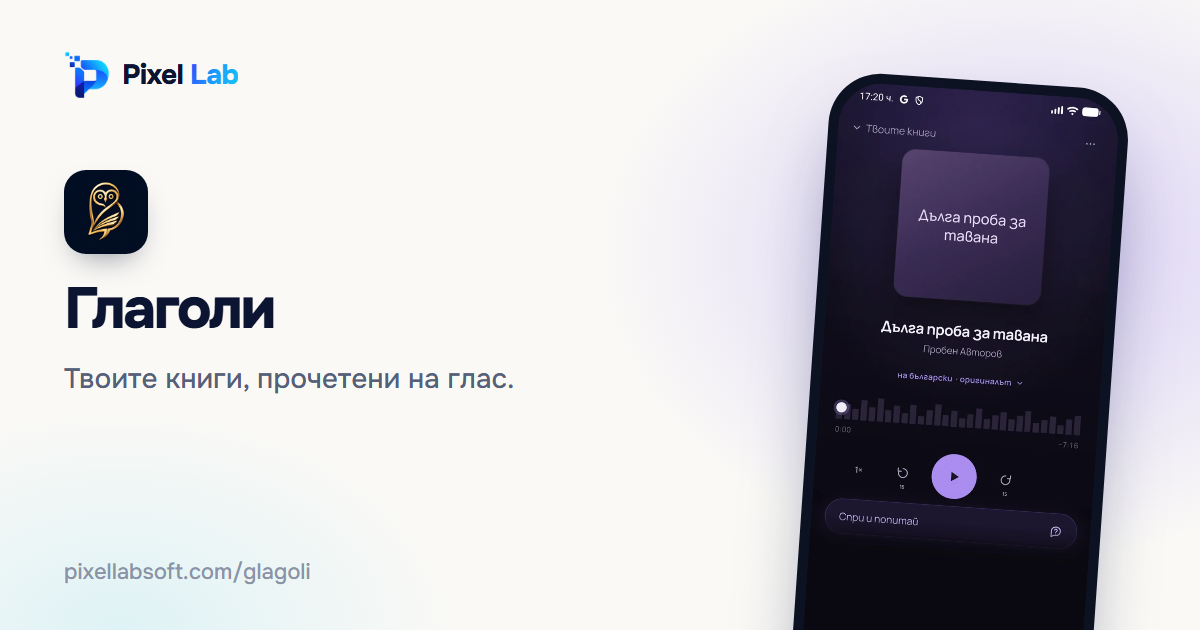
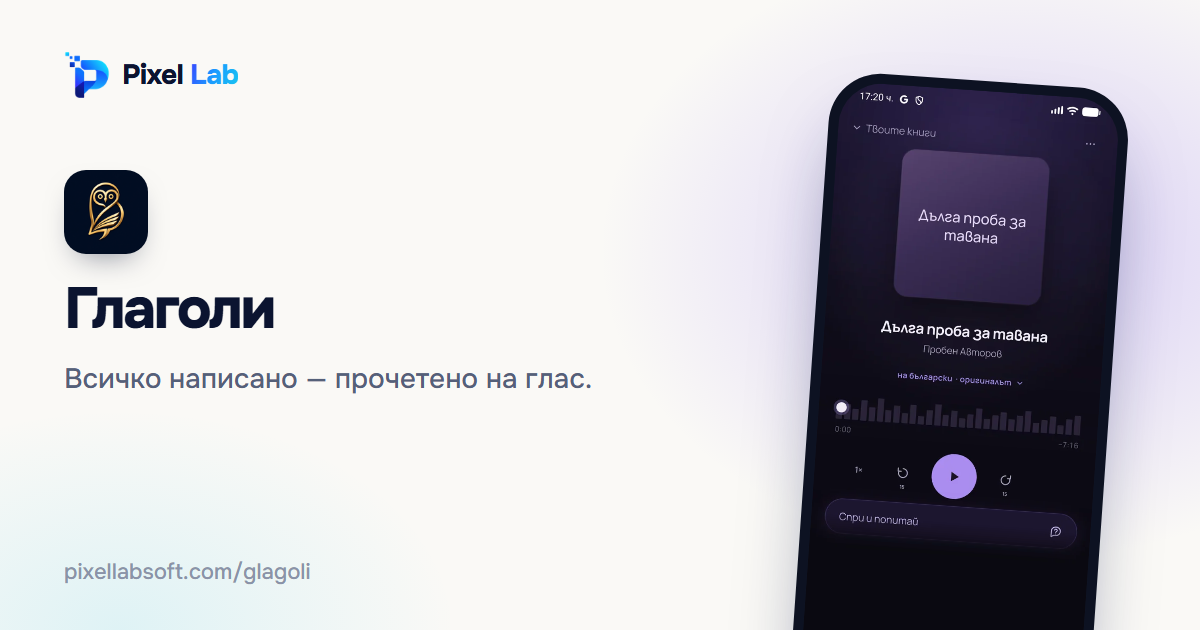
Glagoli: anything written read aloud - books, photographed documents, letters, not only books

Changed region(s): [[0.0308, 0.573, 0.4933, 0.6333]]

diff --git a/docs/glagoli/index.html b/docs/glagoli/index.html
@@ -3,14 +3,14 @@
 <head>
 <meta charset="utf-8">
 <meta name="viewport" content="width=device-width, initial-scale=1">
-<title>Глаголи — Твоите книги, прочетени на глас.</title>
-<meta name="description" content="Качваш своя книга — EPUB, PDF, Word или снимки на страниците — и Глаголи ти я чете на глас, на езика, на който е написана: български или английски.">
+<title>Глаголи — Всичко написано — прочетено на глас.</title>
+<meta name="description" content="Глаголи чете на глас всичко написано: книга, договор, писмо, инструкция, документ от общината. Снимаш страниците с телефона или качваш файл — PDF, Word, EPUB или текст — и го слушаш на естествен глас, на езика, на който е написано: български или английски.">
 <meta name="theme-color" content="#ffffff">
 <link rel="canonical" href="https://pixellabsoft.com/glagoli/">
 <link rel="alternate" hreflang="bg" href="https://pixellabsoft.com/glagoli/">
 <link rel="alternate" hreflang="en" href="https://pixellabsoft.com/en/glagoli/">
-<meta property="og:title" content="Глаголи — Твоите книги, прочетени на глас.">
-<meta property="og:description" content="Качваш своя книга — EPUB, PDF, Word или снимки на страниците — и Глаголи ти я чете на глас, на езика, на който е написана: български или английски.">
+<meta property="og:title" content="Глаголи — Всичко написано — прочетено на глас.">
+<meta property="og:description" content="Глаголи чете на глас всичко написано: книга, договор, писмо, инструкция, документ от общината. Снимаш страниците с телефона или качваш файл — PDF, Word, EPUB или текст — и го слушаш на естествен глас, на езика, на който е написано: български или английски.">
 <meta property="og:url" content="https://pixellabsoft.com/glagoli/">
 <meta property="og:site_name" content="Пиксел Лаб Софт">
 <meta property="og:image" content="https://pixellabsoft.com/assets/og/glagoli-bg.png">
@@ -343,7 +343,7 @@ footer .fine { margin-top: 36px; padding-top: 18px; border-top: 1px solid rgba(2
 .device.window img { height: auto; }
 .mockwrap:has(.window) { display: block; width: min(620px, 100%); }
 </style>
-<script type="application/ld+json">{"@context":"https://schema.org","@type":"MobileApplication","name":"Глаголи","description":"Качваш своя книга — EPUB, PDF, Word или снимки на страниците — и Глаголи ти я чете на глас, на езика, на който е написана: български или английски.","url":"https://pixellabsoft.com/glagoli/","applicationCategory":"BookApplication","publisher":{"@type":"Organization","name":"Пиксел Лаб ЕООД","alternateName":"Pixel Lab Soft","url":"https://pixellabsoft.com/","logo":"https://pixellabsoft.com/assets/favicon-512.png","email":"support@pixellabsoft.com","sameAs":["https://sortis.pro","https://glagoli.app"]},"image":"https://pixellabsoft.com/assets/og/glagoli-bg.png","operatingSystem":"Android","downloadUrl":"https://play.google.com/store/apps/details?id=bg.glagoli.app"}</script>
+<script type="application/ld+json">{"@context":"https://schema.org","@type":"MobileApplication","name":"Глаголи","description":"Глаголи чете на глас всичко написано: книга, договор, писмо, инструкция, документ от общината. Снимаш страниците с телефона или качваш файл — PDF, Word, EPUB или текст — и го слушаш на естествен глас, на езика, на който е написано: български или английски.","url":"https://pixellabsoft.com/glagoli/","applicationCategory":"BookApplication","publisher":{"@type":"Organization","name":"Пиксел Лаб ЕООД","alternateName":"Pixel Lab Soft","url":"https://pixellabsoft.com/","logo":"https://pixellabsoft.com/assets/favicon-512.png","email":"support@pixellabsoft.com","sameAs":["https://sortis.pro","https://glagoli.app"]},"image":"https://pixellabsoft.com/assets/og/glagoli-bg.png","operatingSystem":"Android","downloadUrl":"https://play.google.com/store/apps/details?id=bg.glagoli.app"}</script>
 </head>
 <body>
 <div class="top"><div class="wrap">
@@ -360,15 +360,15 @@ footer .fine { margin-top: 36px; padding-top: 18px; border-top: 1px solid rgba(2
   <div>
     <span class="tile img big"><img src="/assets/icon-glagoli.png" alt="" width="128" height="128"></span>
     <div class="name"><span>Глаголи</span><span class="pill store">Наличен</span></div>
-    <h1>Твоите книги, прочетени на глас.</h1>
-    <div class="chips"><span class="chip">EPUB, PDF, Word или снимка</span><span class="chip">Български и английски</span><span class="chip">Спри и питай — без спойлери</span><span class="chip">Пакети часове, без абонамент</span></div>
+    <h1>Всичко написано — прочетено на глас.</h1>
+    <div class="chips"><span class="chip">Книги, документи, писма</span><span class="chip">Снимка, PDF, Word, EPUB</span><span class="chip">Български и английски</span><span class="chip">Спри и питай</span></div>
     <div class="stores"><a class="store-btn" href="https://play.google.com/store/apps/details?id=bg.glagoli.app"><svg viewBox="0 0 24 24" aria-hidden="true"><path fill="#34d17a" d="M3.6 2.3c-.3.3-.5.8-.5 1.4v16.6c0 .6.2 1.1.5 1.4l9.3-9.7z"/><path fill="#ffd23f" d="m16 15.1-3.1-3.1L16 8.9l3.7 2.1c1.1.6 1.1 1.6 0 2.2z"/><path fill="#ff4d5e" d="M16 15.1 12.9 12l-9.3 9.7c.4.4 1 .4 1.7 0z"/><path fill="#3aa0ff" d="M16 8.9 5.3 2.3c-.7-.4-1.3-.4-1.7 0l9.3 9.7z"/></svg><span>Изтегли от<b>Google Play</b></span></a></div>
   </div>
   <div class="visual" style="--c:#8b6cf6"><div class="mockwrap" style="--c:#8b6cf6"><div class="device phone"><div class="screen" style="aspect-ratio:520 / 1125"><img src="/assets/glagoli-bg.webp" alt="Екран на Глаголи: книгата се чете на глас, а отдолу е бутонът „Спри и попитай“." width="520" height="1125" loading="lazy" decoding="async"></div></div></div></div>
 </section>
 <section class="section read prose">
-<p>Качваш своя книга — EPUB, PDF, Word или снимки на страниците — и Глаголи ти я чете на глас, на езика, на който е написана: български или английски.</p>
-<p>Спираш и питаш нещо за прочетеното. Отговорът е само по това, което вече си чул, и не издава какво следва. После продължаваш точно оттам.</p>
+<p>Глаголи чете на глас всичко написано: книга, договор, писмо, инструкция, документ от общината. Снимаш страниците с телефона или качваш файл — PDF, Word, EPUB или текст — и го слушаш на естествен глас, на езика, на който е написано: български или английски.</p>
+<p>Спираш и питаш нещо за прочетеното. При книга отговорът е само по това, което вече си чул, и не издава какво следва. После продължаваш точно оттам.</p>
 <p>Плаща се с пакети часове слушане, без абонамент. Първата минута е безплатна.</p>
 <div class="links">
   <a href="https://glagoli.app/poveritelnost.html">Политика за поверителност</a>

diff --git a/docs/en/glagoli/index.html b/docs/en/glagoli/index.html
@@ -3,14 +3,14 @@
 <head>
 <meta charset="utf-8">
 <meta name="viewport" content="width=device-width, initial-scale=1">
-<title>Glagoli — Your books, read aloud.</title>
-<meta name="description" content="Upload your own book — EPUB, PDF, Word or photos of the pages — and Glagoli reads it to you aloud, in the language it was written in: Bulgarian or English.">
+<title>Glagoli — Anything written — read aloud.</title>
+<meta name="description" content="Glagoli reads aloud anything written: a book, a contract, a letter, a manual, an official document. Snap the pages with your phone or upload a file — PDF, Word, EPUB or text — and listen in a natural voice, in the language it was written in: Bulgarian or English.">
 <meta name="theme-color" content="#ffffff">
 <link rel="canonical" href="https://pixellabsoft.com/en/glagoli/">
 <link rel="alternate" hreflang="en" href="https://pixellabsoft.com/en/glagoli/">
 <link rel="alternate" hreflang="bg" href="https://pixellabsoft.com/glagoli/">
-<meta property="og:title" content="Glagoli — Your books, read aloud.">
-<meta property="og:description" content="Upload your own book — EPUB, PDF, Word or photos of the pages — and Glagoli reads it to you aloud, in the language it was written in: Bulgarian or English.">
+<meta property="og:title" content="Glagoli — Anything written — read aloud.">
+<meta property="og:description" content="Glagoli reads aloud anything written: a book, a contract, a letter, a manual, an official document. Snap the pages with your phone or upload a file — PDF, Word, EPUB or text — and listen in a natural voice, in the language it was written in: Bulgarian or English.">
 <meta property="og:url" content="https://pixellabsoft.com/en/glagoli/">
 <meta property="og:site_name" content="Pixel Lab Soft">
 <meta property="og:image" content="https://pixellabsoft.com/assets/og/glagoli-en.png">
@@ -343,7 +343,7 @@ footer .fine { margin-top: 36px; padding-top: 18px; border-top: 1px solid rgba(2
 .device.window img { height: auto; }
 .mockwrap:has(.window) { display: block; width: min(620px, 100%); }
 </style>
-<script type="application/ld+json">{"@context":"https://schema.org","@type":"MobileApplication","name":"Glagoli","description":"Upload your own book — EPUB, PDF, Word or photos of the pages — and Glagoli reads it to you aloud, in the language it was written in: Bulgarian or English.","url":"https://pixellabsoft.com/en/glagoli/","applicationCategory":"BookApplication","publisher":{"@type":"Organization","name":"Pixel Lab EOOD","alternateName":"Pixel Lab Soft","url":"https://pixellabsoft.com/","logo":"https://pixellabsoft.com/assets/favicon-512.png","email":"support@pixellabsoft.com","sameAs":["https://sortis.pro","https://glagoli.app"]},"image":"https://pixellabsoft.com/assets/og/glagoli-en.png","operatingSystem":"Android","downloadUrl":"https://play.google.com/store/apps/details?id=bg.glagoli.app"}</script>
+<script type="application/ld+json">{"@context":"https://schema.org","@type":"MobileApplication","name":"Glagoli","description":"Glagoli reads aloud anything written: a book, a contract, a letter, a manual, an official document. Snap the pages with your phone or upload a file — PDF, Word, EPUB or text — and listen in a natural voice, in the language it was written in: Bulgarian or English.","url":"https://pixellabsoft.com/en/glagoli/","applicationCategory":"BookApplication","publisher":{"@type":"Organization","name":"Pixel Lab EOOD","alternateName":"Pixel Lab Soft","url":"https://pixellabsoft.com/","logo":"https://pixellabsoft.com/assets/favicon-512.png","email":"support@pixellabsoft.com","sameAs":["https://sortis.pro","https://glagoli.app"]},"image":"https://pixellabsoft.com/assets/og/glagoli-en.png","operatingSystem":"Android","downloadUrl":"https://play.google.com/store/apps/details?id=bg.glagoli.app"}</script>
 </head>
 <body>
 <div class="top"><div class="wrap">
@@ -360,15 +360,15 @@ footer .fine { margin-top: 36px; padding-top: 18px; border-top: 1px solid rgba(2
   <div>
     <span class="tile img big"><img src="/assets/icon-glagoli.png" alt="" width="128" height="128"></span>
     <div class="name"><span>Glagoli</span><span class="pill store">Available</span></div>
-    <h1>Your books, read aloud.</h1>
-    <div class="chips"><span class="chip">EPUB, PDF, Word or a photo</span><span class="chip">Bulgarian and English</span><span class="chip">Pause and ask — no spoilers</span><span class="chip">Hour packs, no subscription</span></div>
+    <h1>Anything written — read aloud.</h1>
+    <div class="chips"><span class="chip">Books, documents, letters</span><span class="chip">Photo, PDF, Word, EPUB</span><span class="chip">Bulgarian and English</span><span class="chip">Pause and ask</span></div>
     <div class="stores"><a class="store-btn" href="https://play.google.com/store/apps/details?id=bg.glagoli.app"><svg viewBox="0 0 24 24" aria-hidden="true"><path fill="#34d17a" d="M3.6 2.3c-.3.3-.5.8-.5 1.4v16.6c0 .6.2 1.1.5 1.4l9.3-9.7z"/><path fill="#ffd23f" d="m16 15.1-3.1-3.1L16 8.9l3.7 2.1c1.1.6 1.1 1.6 0 2.2z"/><path fill="#ff4d5e" d="M16 15.1 12.9 12l-9.3 9.7c.4.4 1 .4 1.7 0z"/><path fill="#3aa0ff" d="M16 8.9 5.3 2.3c-.7-.4-1.3-.4-1.7 0l9.3 9.7z"/></svg><span>Get it on<b>Google Play</b></span></a></div>
   </div>
   <div class="visual" style="--c:#8b6cf6"><div class="mockwrap" style="--c:#8b6cf6"><div class="device phone"><div class="screen" style="aspect-ratio:520 / 1125"><img src="/assets/glagoli-en.webp" alt="Glagoli screen: the book is read aloud, with a “Pause and ask” button below." width="520" height="1125" loading="lazy" decoding="async"></div></div></div></div>
 </section>
 <section class="section read prose">
-<p>Upload your own book — EPUB, PDF, Word or photos of the pages — and Glagoli reads it to you aloud, in the language it was written in: Bulgarian or English.</p>
-<p>Pause and ask something about what you have heard. The answer covers only what you have already listened to and never gives away what comes next. Then carry on right where you were.</p>
+<p>Glagoli reads aloud anything written: a book, a contract, a letter, a manual, an official document. Snap the pages with your phone or upload a file — PDF, Word, EPUB or text — and listen in a natural voice, in the language it was written in: Bulgarian or English.</p>
+<p>Pause and ask something about what you have heard. With a book, the answer covers only what you have already listened to and never gives away what comes next. Then carry on right where you were.</p>
 <p>You pay for packs of listening hours, with no subscription. The first minute is free.</p>
 <div class="links">
   <a href="https://glagoli.app/privacy.html">Privacy Policy</a>

diff --git a/docs/index.html b/docs/index.html
@@ -365,7 +365,7 @@ footer .fine { margin-top: 36px; padding-top: 18px; border-top: 1px solid rgba(2
   </div>
   <div class="compo2" aria-hidden="true">
 <div class="mockwrap c1" style="--c:#f0432f"><div class="device phone"><div class="screen" style="aspect-ratio:520 / 1125"><img src="/assets/konspekt-bg.webp" alt="Екран на Konspekt: резюмето на среща, взетите решения и бутон „Изпрати протокол“." width="520" height="1125" loading="lazy" decoding="async"></div></div></div><span class="note n1">от срещата — протокол<svg class="sq" viewBox="0 0 60 40" fill="none" stroke="currentColor" stroke-width="1.6" stroke-linecap="round" aria-hidden="true"><path d="M4 6c14 2 30 10 38 26"/><path d="M34 30l8 3 1-9"/></svg></span>
-<div class="mockwrap c2" style="--c:#8b6cf6"><div class="device phone"><div class="screen" style="aspect-ratio:520 / 1125"><img src="/assets/glagoli-bg.webp" alt="Екран на Глаголи: книгата се чете на глас, а отдолу е бутонът „Спри и попитай“." width="520" height="1125" loading="lazy" decoding="async"></div></div></div><span class="note n2">книгата ти — на глас<svg class="sq" viewBox="0 0 60 40" fill="none" stroke="currentColor" stroke-width="1.6" stroke-linecap="round" aria-hidden="true"><path d="M4 6c14 2 30 10 38 26"/><path d="M34 30l8 3 1-9"/></svg></span>
+<div class="mockwrap c2" style="--c:#8b6cf6"><div class="device phone"><div class="screen" style="aspect-ratio:520 / 1125"><img src="/assets/glagoli-bg.webp" alt="Екран на Глаголи: книгата се чете на глас, а отдолу е бутонът „Спри и попитай“." width="520" height="1125" loading="lazy" decoding="async"></div></div></div><span class="note n2">всичко написано — на глас<svg class="sq" viewBox="0 0 60 40" fill="none" stroke="currentColor" stroke-width="1.6" stroke-linecap="round" aria-hidden="true"><path d="M4 6c14 2 30 10 38 26"/><path d="M34 30l8 3 1-9"/></svg></span>
 <div class="mockwrap c3" style="--c:#4D64FA"><div class="device phone"><div class="screen" style="aspect-ratio:520 / 1125"><img src="/assets/sroko-bg.webp" alt="Екран на Сроко: два автомобила с оставащите дни до винетката, ГТП, гражданската и книжката." width="520" height="1125" loading="lazy" decoding="async"></div></div></div><span class="note n3">не изпускай срок!<svg class="sq" viewBox="0 0 60 40" fill="none" stroke="currentColor" stroke-width="1.6" stroke-linecap="round" aria-hidden="true"><path d="M4 6c14 2 30 10 38 26"/><path d="M34 30l8 3 1-9"/></svg></span>
   </div>
 </section>
@@ -381,7 +381,7 @@ footer .fine { margin-top: 36px; padding-top: 18px; border-top: 1px solid rgba(2
 <a class="bcard" href="/glagoli/" style="--c:#8b6cf6">
   <div class="row"><span class="tile img "><img src="/assets/icon-glagoli.png" alt="" width="128" height="128"></span><span class="pill store">Наличен</span></div>
   <b>Глаголи</b>
-  <p>Качваш книга и я слушаш. Спираш и питаш.</p>
+  <p>Снимаш документ или качваш книга — Глаголи ти го чете на глас.</p>
   <span class="peek"><div class="mockwrap" style="--c:#8b6cf6"><div class="device phone"><div class="screen" style="aspect-ratio:520 / 1125"><img src="/assets/glagoli-bg.webp" alt="Екран на Глаголи: книгата се чете на глас, а отдолу е бутонът „Спри и попитай“." width="520" height="1125" loading="lazy" decoding="async"></div></div></div></span>
   <span class="go">Виж повече<svg viewBox="0 0 24 24" fill="none" stroke="currentColor" stroke-width="2" stroke-linecap="round" stroke-linejoin="round" aria-hidden="true"><path d="M5 12h14M13 5l7 7-7 7"/></svg></span>
 </a>
@@ -422,8 +422,8 @@ footer .fine { margin-top: 36px; padding-top: 18px; border-top: 1px solid rgba(2
 <section class="mid" id="glagoli" style="--c:#8b6cf6">
   <div class="txt">
     <div class="head"><span class="num">02</span><span class="tile img "><img src="/assets/icon-glagoli.png" alt="" width="128" height="128"></span><b>Глаголи</b><span class="pill store">Наличен</span></div>
-    <h3>Твоите книги, прочетени на глас.</h3>
-    <p>Качваш книга и я слушаш. Спираш и питаш.</p>
+    <h3>Всичко написано — прочетено на глас.</h3>
+    <p>Снимаш документ или качваш книга — Глаголи ти го чете на глас.</p>
     <div class="actions"><a class="store-btn" href="https://play.google.com/store/apps/details?id=bg.glagoli.app"><svg viewBox="0 0 24 24" aria-hidden="true"><path fill="#34d17a" d="M3.6 2.3c-.3.3-.5.8-.5 1.4v16.6c0 .6.2 1.1.5 1.4l9.3-9.7z"/><path fill="#ffd23f" d="m16 15.1-3.1-3.1L16 8.9l3.7 2.1c1.1.6 1.1 1.6 0 2.2z"/><path fill="#ff4d5e" d="M16 15.1 12.9 12l-9.3 9.7c.4.4 1 .4 1.7 0z"/><path fill="#3aa0ff" d="M16 8.9 5.3 2.3c-.7-.4-1.3-.4-1.7 0l9.3 9.7z"/></svg><span>Изтегли от<b>Google Play</b></span></a><a class="more" href="/glagoli/">Виж повече<svg viewBox="0 0 24 24" fill="none" stroke="currentColor" stroke-width="2" stroke-linecap="round" stroke-linejoin="round" aria-hidden="true"><path d="M5 12h14M13 5l7 7-7 7"/></svg></a></div>
   </div>
   <div class="visual"><div class="mockwrap" style="--c:#8b6cf6"><div class="device phone"><div class="screen" style="aspect-ratio:520 / 1125"><img src="/assets/glagoli-bg.webp" alt="Екран на Глаголи: книгата се чете на глас, а отдолу е бутонът „Спри и попитай“." width="520" height="1125" loading="lazy" decoding="async"></div></div></div></div>

diff --git a/docs/en/index.html b/docs/en/index.html
@@ -365,7 +365,7 @@ footer .fine { margin-top: 36px; padding-top: 18px; border-top: 1px solid rgba(2
   </div>
   <div class="compo2" aria-hidden="true">
 <div class="mockwrap c1" style="--c:#f0432f"><div class="device phone"><div class="screen" style="aspect-ratio:520 / 1125"><img src="/assets/konspekt-en.webp" alt="Konspekt screen: a meeting summary, the decisions taken and a “Send minutes” button." width="520" height="1125" loading="lazy" decoding="async"></div></div></div><span class="note n1">meeting → minutes<svg class="sq" viewBox="0 0 60 40" fill="none" stroke="currentColor" stroke-width="1.6" stroke-linecap="round" aria-hidden="true"><path d="M4 6c14 2 30 10 38 26"/><path d="M34 30l8 3 1-9"/></svg></span>
-<div class="mockwrap c2" style="--c:#8b6cf6"><div class="device phone"><div class="screen" style="aspect-ratio:520 / 1125"><img src="/assets/glagoli-en.webp" alt="Glagoli screen: the book is read aloud, with a “Pause and ask” button below." width="520" height="1125" loading="lazy" decoding="async"></div></div></div><span class="note n2">your book, read aloud<svg class="sq" viewBox="0 0 60 40" fill="none" stroke="currentColor" stroke-width="1.6" stroke-linecap="round" aria-hidden="true"><path d="M4 6c14 2 30 10 38 26"/><path d="M34 30l8 3 1-9"/></svg></span>
+<div class="mockwrap c2" style="--c:#8b6cf6"><div class="device phone"><div class="screen" style="aspect-ratio:520 / 1125"><img src="/assets/glagoli-en.webp" alt="Glagoli screen: the book is read aloud, with a “Pause and ask” button below." width="520" height="1125" loading="lazy" decoding="async"></div></div></div><span class="note n2">anything written, read aloud<svg class="sq" viewBox="0 0 60 40" fill="none" stroke="currentColor" stroke-width="1.6" stroke-linecap="round" aria-hidden="true"><path d="M4 6c14 2 30 10 38 26"/><path d="M34 30l8 3 1-9"/></svg></span>
 <div class="mockwrap c3" style="--c:#4D64FA"><div class="device phone"><div class="screen" style="aspect-ratio:520 / 1125"><img src="/assets/sroko-en.webp" alt="Sroko screen: two vehicles with the days left on the vignette, roadworthiness test, insurance and licence." width="520" height="1125" loading="lazy" decoding="async"></div></div></div><span class="note n3">never miss a deadline<svg class="sq" viewBox="0 0 60 40" fill="none" stroke="currentColor" stroke-width="1.6" stroke-linecap="round" aria-hidden="true"><path d="M4 6c14 2 30 10 38 26"/><path d="M34 30l8 3 1-9"/></svg></span>
   </div>
 </section>
@@ -381,7 +381,7 @@ footer .fine { margin-top: 36px; padding-top: 18px; border-top: 1px solid rgba(2
 <a class="bcard" href="/en/glagoli/" style="--c:#8b6cf6">
   <div class="row"><span class="tile img "><img src="/assets/icon-glagoli.png" alt="" width="128" height="128"></span><span class="pill store">Available</span></div>
   <b>Glagoli</b>
-  <p>Upload a book and listen. Pause and ask.</p>
+  <p>Snap a document or upload a book — Glagoli reads it to you aloud.</p>
   <span class="peek"><div class="mockwrap" style="--c:#8b6cf6"><div class="device phone"><div class="screen" style="aspect-ratio:520 / 1125"><img src="/assets/glagoli-en.webp" alt="Glagoli screen: the book is read aloud, with a “Pause and ask” button below." width="520" height="1125" loading="lazy" decoding="async"></div></div></div></span>
   <span class="go">Learn more<svg viewBox="0 0 24 24" fill="none" stroke="currentColor" stroke-width="2" stroke-linecap="round" stroke-linejoin="round" aria-hidden="true"><path d="M5 12h14M13 5l7 7-7 7"/></svg></span>
 </a>
@@ -422,8 +422,8 @@ footer .fine { margin-top: 36px; padding-top: 18px; border-top: 1px solid rgba(2
 <section class="mid" id="glagoli" style="--c:#8b6cf6">
   <div class="txt">
     <div class="head"><span class="num">02</span><span class="tile img "><img src="/assets/icon-glagoli.png" alt="" width="128" height="128"></span><b>Glagoli</b><span class="pill store">Available</span></div>
-    <h3>Your books, read aloud.</h3>
-    <p>Upload a book and listen. Pause and ask.</p>
+    <h3>Anything written — read aloud.</h3>
+    <p>Snap a document or upload a book — Glagoli reads it to you aloud.</p>
     <div class="actions"><a class="store-btn" href="https://play.google.com/store/apps/details?id=bg.glagoli.app"><svg viewBox="0 0 24 24" aria-hidden="true"><path fill="#34d17a" d="M3.6 2.3c-.3.3-.5.8-.5 1.4v16.6c0 .6.2 1.1.5 1.4l9.3-9.7z"/><path fill="#ffd23f" d="m16 15.1-3.1-3.1L16 8.9l3.7 2.1c1.1.6 1.1 1.6 0 2.2z"/><path fill="#ff4d5e" d="M16 15.1 12.9 12l-9.3 9.7c.4.4 1 .4 1.7 0z"/><path fill="#3aa0ff" d="M16 8.9 5.3 2.3c-.7-.4-1.3-.4-1.7 0l9.3 9.7z"/></svg><span>Get it on<b>Google Play</b></span></a><a class="more" href="/en/glagoli/">Learn more<svg viewBox="0 0 24 24" fill="none" stroke="currentColor" stroke-width="2" stroke-linecap="round" stroke-linejoin="round" aria-hidden="true"><path d="M5 12h14M13 5l7 7-7 7"/></svg></a></div>
   </div>
   <div class="visual"><div class="mockwrap" style="--c:#8b6cf6"><div class="device phone"><div class="screen" style="aspect-ratio:520 / 1125"><img src="/assets/glagoli-en.webp" alt="Glagoli screen: the book is read aloud, with a “Pause and ask” button below." width="520" height="1125" loading="lazy" decoding="async"></div></div></div></div>
